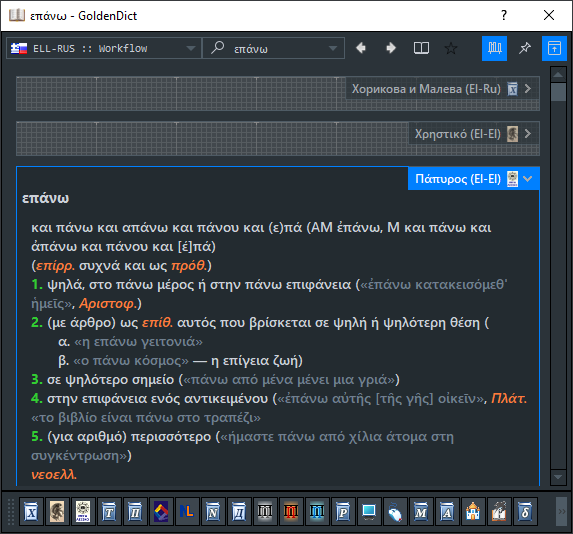
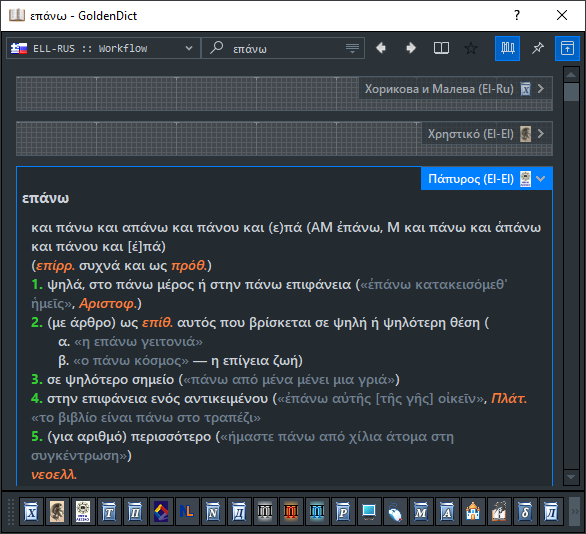
Update readme and screenshots

diff --git a/README.md b/README.md
@@ -6,23 +6,23 @@ Tested on GoldenDict 1.5.0-7 (Qt 5.12.3) on Windows 10, 8.1 and 7.
 
 ## Installation
 
-1. Move `styles` and `fonts` folders to the `GD Configuration Folder`:  
+1. Move `styles` and `fonts` folders to the GD `Configuration Folder`:  
 
-   - If `GoldenDict` is installed by default, the `GD Configuration Folder` is located at the:
+   - If GD is installed by default, it's located at the:
 
      ```
      c:\Users\<user>\AppData\Roaming\GoldenDict\
      ```
 
-   - For a portable installation, the `GD Configuration Folder` is located here:
+   - If installation is portable, it's located at the:
 
      ```
      GoldenDict\portable\
      ```
 
-2. Move the `icons` folder to the `GoldenDict` program folder: `c:\Program Files\GoldenDict\`.  
+2. Move `icons` folder to the GD program folder: `c:\Program Files\GoldenDict\` or `GoldenDict\`.  
 
-   To return to the original GD icons, you need to remove the appropriate rules in `qt-style.css` - see comments inside.  
+   To return to the original GD icons, you need to remove the appropriate rules in `qt-style.css` (see comments inside).  
 
 
 ## Color palette
